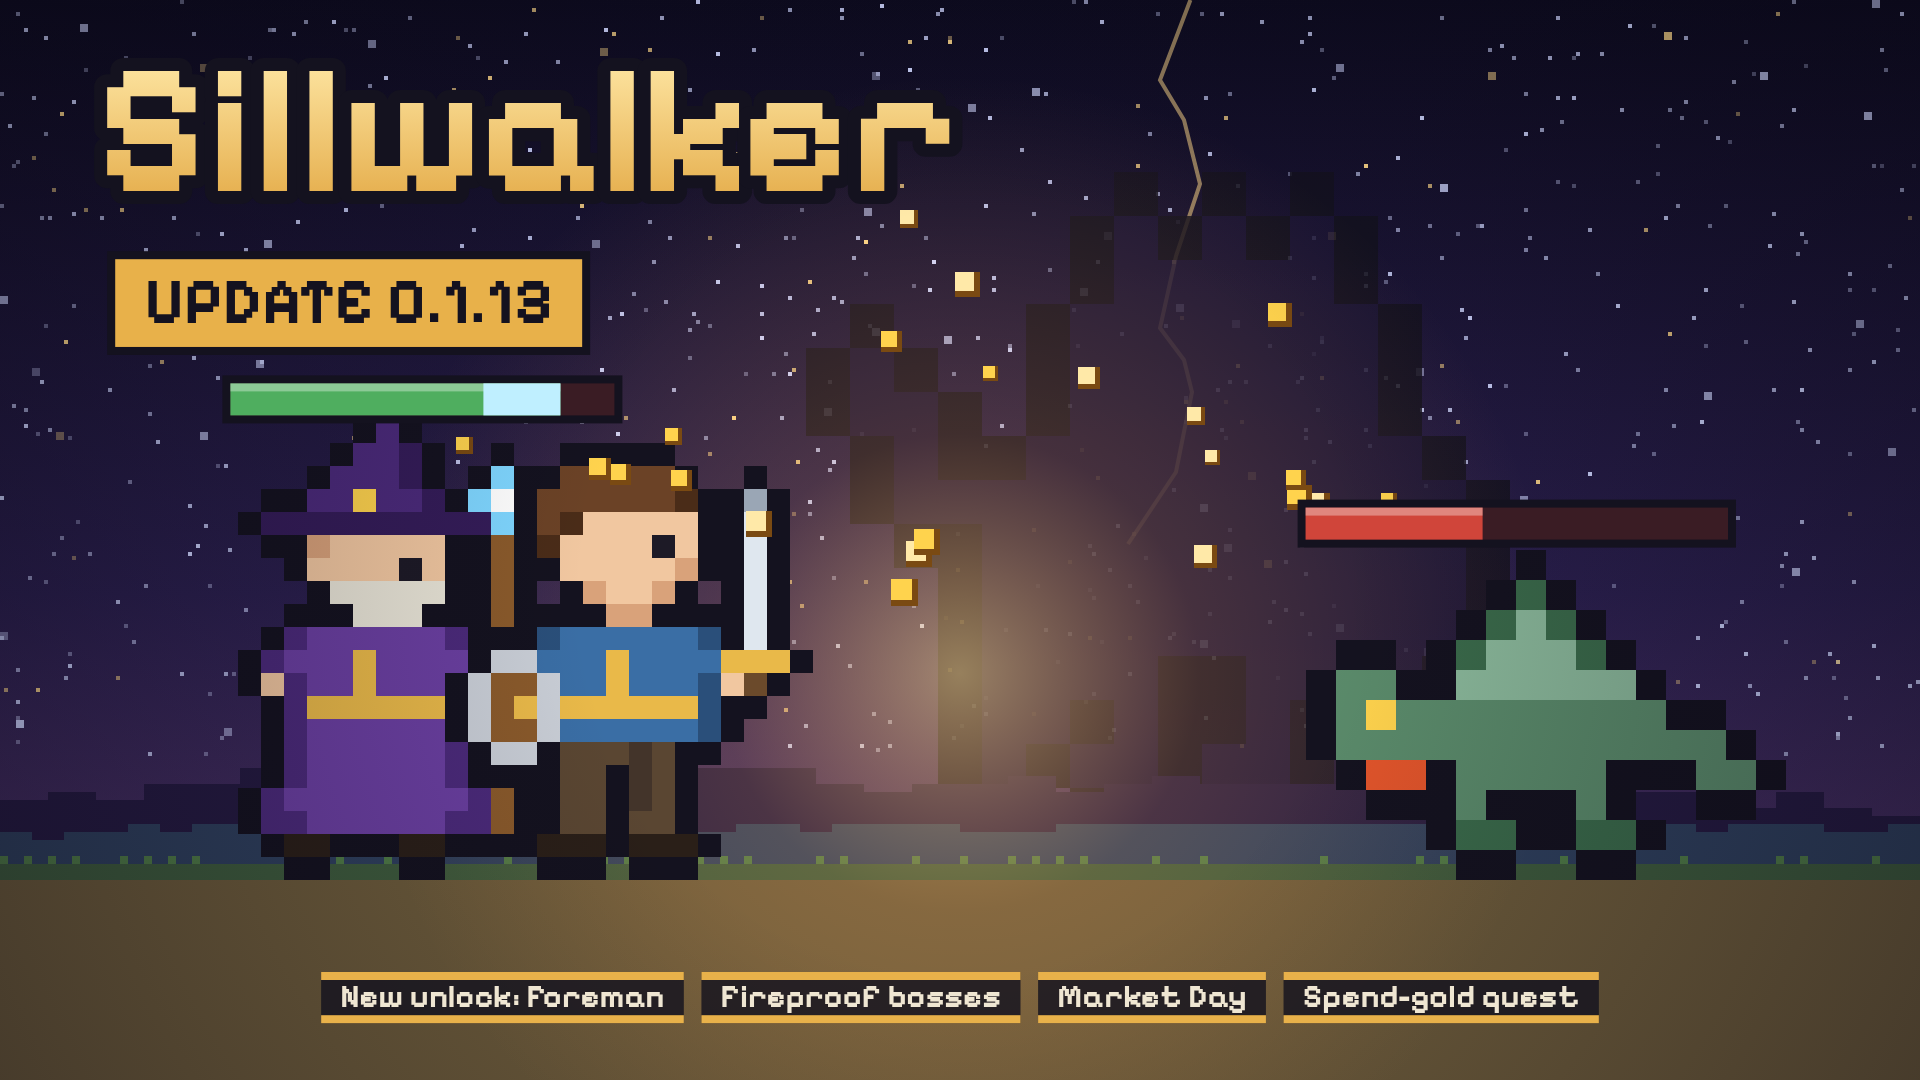
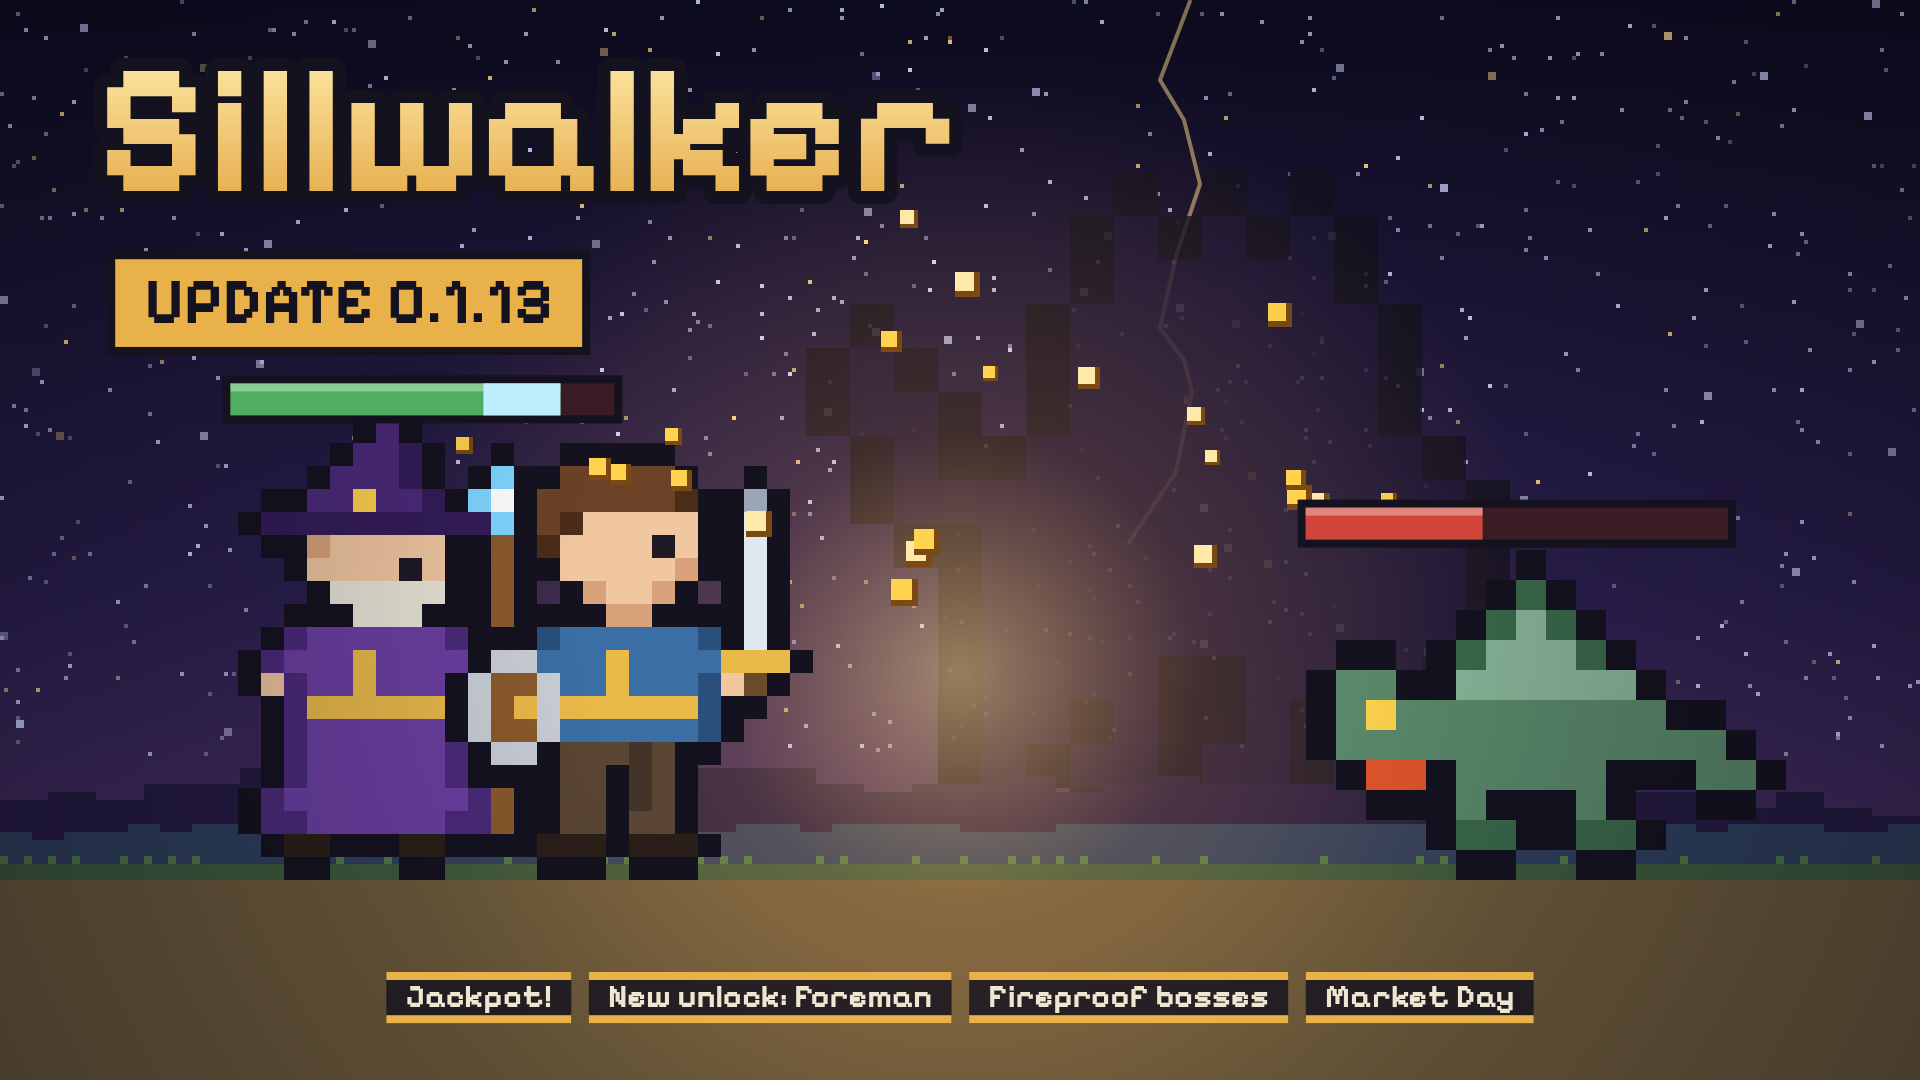
Quoi de neuf (it. 3405) : édition 209, Jackpot en tête de la 0.1.13
Claude-Session: https://claude.ai/code/session_01BoV1hVHohF69q4PDskLo8j

Changed region(s): [[0.1562, 0.8861, 0.8438, 0.9472]]

diff --git a/src/renderer/game/news.js b/src/renderer/game/news.js
@@ -986,7 +986,10 @@ const EDITION_207 = [
 const EDITION_208 = [
   "Familiers : les familiers encore à découvrir montrent aussi leur bonus au niveau 10, pour savoir ce qu’ils vaudront.",
 ];
-export const NEWS_EDITIONS = [EDITION_1, EDITION_2, EDITION_3, EDITION_4, EDITION_5, EDITION_6, EDITION_7, EDITION_8, EDITION_9, EDITION_10, EDITION_11, EDITION_12, EDITION_13, EDITION_14, EDITION_15, EDITION_16, EDITION_17, EDITION_18, EDITION_19, EDITION_20, EDITION_21, EDITION_22, EDITION_23, EDITION_24, EDITION_25, EDITION_26, EDITION_27, EDITION_28, EDITION_29, EDITION_30, EDITION_31, EDITION_32, EDITION_33, EDITION_34, EDITION_35, EDITION_36, EDITION_37, EDITION_38, EDITION_39, EDITION_40, EDITION_41, EDITION_42, EDITION_43, EDITION_44, EDITION_45, EDITION_46, EDITION_47, EDITION_48, EDITION_49, EDITION_50, EDITION_51, EDITION_52, EDITION_53, EDITION_54, EDITION_55, EDITION_56, EDITION_57, EDITION_58, EDITION_59, EDITION_60, EDITION_61, EDITION_62, EDITION_63, EDITION_64, EDITION_65, EDITION_66, EDITION_67, EDITION_68, EDITION_69, EDITION_70, EDITION_71, EDITION_72, EDITION_73, EDITION_74, EDITION_75, EDITION_76, EDITION_77, EDITION_78, EDITION_79, EDITION_80, EDITION_81, EDITION_82, EDITION_83, EDITION_84, EDITION_85, EDITION_86, EDITION_87, EDITION_88, EDITION_89, EDITION_90, EDITION_91, EDITION_92, EDITION_93, EDITION_94, EDITION_95, EDITION_96, EDITION_97, EDITION_98, EDITION_99, EDITION_100, EDITION_101, EDITION_102, EDITION_103, EDITION_104, EDITION_105, EDITION_106, EDITION_107, EDITION_108, EDITION_109, EDITION_110, EDITION_111, EDITION_112, EDITION_113, EDITION_114, EDITION_115, EDITION_116, EDITION_117, EDITION_118, EDITION_119, EDITION_120, EDITION_121, EDITION_122, EDITION_123, EDITION_124, EDITION_125, EDITION_126, EDITION_127, EDITION_128, EDITION_129, EDITION_130, EDITION_131, EDITION_132, EDITION_133, EDITION_134, EDITION_135, EDITION_136, EDITION_137, EDITION_138, EDITION_139, EDITION_140, EDITION_141, EDITION_142, EDITION_143, EDITION_144, EDITION_145, EDITION_146, EDITION_147, EDITION_148, EDITION_149, EDITION_150, EDITION_151, EDITION_152, EDITION_153, EDITION_154, EDITION_155, EDITION_156, EDITION_157, EDITION_158, EDITION_159, EDITION_160, EDITION_161, EDITION_162, EDITION_163, EDITION_164, EDITION_165, EDITION_166, EDITION_167, EDITION_168, EDITION_169, EDITION_170, EDITION_171, EDITION_172, EDITION_173, EDITION_174, EDITION_175, EDITION_176, EDITION_177, EDITION_178, EDITION_179, EDITION_180, EDITION_181, EDITION_182, EDITION_183, EDITION_184, EDITION_185, EDITION_186, EDITION_187, EDITION_188, EDITION_189, EDITION_190, EDITION_191, EDITION_192, EDITION_193, EDITION_194, EDITION_195, EDITION_196, EDITION_197, EDITION_198, EDITION_199, EDITION_200, EDITION_201, EDITION_202, EDITION_203, EDITION_204, EDITION_205, EDITION_206, EDITION_207, EDITION_208];
+const EDITION_209 = [
+  "Jackpot ! De temps en temps, une victoire rapporte 20 fois son or, avec une pluie de pièces et une fanfare : chaque combat peut être le bon.",
+];
+export const NEWS_EDITIONS = [EDITION_1, EDITION_2, EDITION_3, EDITION_4, EDITION_5, EDITION_6, EDITION_7, EDITION_8, EDITION_9, EDITION_10, EDITION_11, EDITION_12, EDITION_13, EDITION_14, EDITION_15, EDITION_16, EDITION_17, EDITION_18, EDITION_19, EDITION_20, EDITION_21, EDITION_22, EDITION_23, EDITION_24, EDITION_25, EDITION_26, EDITION_27, EDITION_28, EDITION_29, EDITION_30, EDITION_31, EDITION_32, EDITION_33, EDITION_34, EDITION_35, EDITION_36, EDITION_37, EDITION_38, EDITION_39, EDITION_40, EDITION_41, EDITION_42, EDITION_43, EDITION_44, EDITION_45, EDITION_46, EDITION_47, EDITION_48, EDITION_49, EDITION_50, EDITION_51, EDITION_52, EDITION_53, EDITION_54, EDITION_55, EDITION_56, EDITION_57, EDITION_58, EDITION_59, EDITION_60, EDITION_61, EDITION_62, EDITION_63, EDITION_64, EDITION_65, EDITION_66, EDITION_67, EDITION_68, EDITION_69, EDITION_70, EDITION_71, EDITION_72, EDITION_73, EDITION_74, EDITION_75, EDITION_76, EDITION_77, EDITION_78, EDITION_79, EDITION_80, EDITION_81, EDITION_82, EDITION_83, EDITION_84, EDITION_85, EDITION_86, EDITION_87, EDITION_88, EDITION_89, EDITION_90, EDITION_91, EDITION_92, EDITION_93, EDITION_94, EDITION_95, EDITION_96, EDITION_97, EDITION_98, EDITION_99, EDITION_100, EDITION_101, EDITION_102, EDITION_103, EDITION_104, EDITION_105, EDITION_106, EDITION_107, EDITION_108, EDITION_109, EDITION_110, EDITION_111, EDITION_112, EDITION_113, EDITION_114, EDITION_115, EDITION_116, EDITION_117, EDITION_118, EDITION_119, EDITION_120, EDITION_121, EDITION_122, EDITION_123, EDITION_124, EDITION_125, EDITION_126, EDITION_127, EDITION_128, EDITION_129, EDITION_130, EDITION_131, EDITION_132, EDITION_133, EDITION_134, EDITION_135, EDITION_136, EDITION_137, EDITION_138, EDITION_139, EDITION_140, EDITION_141, EDITION_142, EDITION_143, EDITION_144, EDITION_145, EDITION_146, EDITION_147, EDITION_148, EDITION_149, EDITION_150, EDITION_151, EDITION_152, EDITION_153, EDITION_154, EDITION_155, EDITION_156, EDITION_157, EDITION_158, EDITION_159, EDITION_160, EDITION_161, EDITION_162, EDITION_163, EDITION_164, EDITION_165, EDITION_166, EDITION_167, EDITION_168, EDITION_169, EDITION_170, EDITION_171, EDITION_172, EDITION_173, EDITION_174, EDITION_175, EDITION_176, EDITION_177, EDITION_178, EDITION_179, EDITION_180, EDITION_181, EDITION_182, EDITION_183, EDITION_184, EDITION_185, EDITION_186, EDITION_187, EDITION_188, EDITION_189, EDITION_190, EDITION_191, EDITION_192, EDITION_193, EDITION_194, EDITION_195, EDITION_196, EDITION_197, EDITION_198, EDITION_199, EDITION_200, EDITION_201, EDITION_202, EDITION_203, EDITION_204, EDITION_205, EDITION_206, EDITION_207, EDITION_208, EDITION_209];
 export const NEWS_ID = NEWS_EDITIONS.length;
 /** Nouveautés des éditions après `seen` (0 : toutes), la plus récente d'abord. */
 export const newsItems = (seen = 0) => NEWS_EDITIONS.slice(Math.max(0, seen)).reverse().flat();

diff --git a/scripts/steam-capsules/make.js b/scripts/steam-capsules/make.js
@@ -22,7 +22,7 @@ const SIZES = [
   ["update-0.1.10", 1920, 1080, "update", { ver: "0.1.10", tags: "Zeal Day|Champions’ Challenge|The Shrike pet|Friendlier mini mode|Clearer translations" }], // (it. 3260, 3273)
   ["update-0.1.11", 1920, 1080, "update", { ver: "0.1.11", tags: "New pets: Wasp, Woodpecker|Pet Party event|Forge Day|Events & blessings counted" }], // (it. 3299, 3302, 3312, 3319)
   ["update-0.1.12", 1920, 1080, "update", { ver: "0.1.12", tags: "New elite: Hexing|New pets: Mantis, Octopus|Sky Forge event|Travel Day" }], // (it. 3342, 3347, 3351, 3362)
-  ["update-0.1.13", 1920, 1080, "update", { ver: "0.1.13", tags: "New unlock: Foreman|Fireproof bosses|Market Day|Spend-gold quest" }], // (it. 3380, 3396)
+  ["update-0.1.13", 1920, 1080, "update", { ver: "0.1.13", tags: "Jackpot!|New unlock: Foreman|Fireproof bosses|Market Day" }], // (it. 3380, 3396, 3405)
 ].filter(([name]) => !process.env.ONLY || name === process.env.ONLY); // ONLY=<nom> : une seule image
 app.whenReady().then(async () => {
   fs.mkdirSync(OUT, { recursive: true });

diff --git a/src/renderer/i18n/lang/ru.js b/src/renderer/i18n/lang/ru.js
@@ -2469,4 +2469,5 @@ export default {
   3594: "Питомцы: ещё не найденные питомцы показывают и бонус на 10-м уровне — видно, чего они будут стоить.",
   3595: "Джекпот! {0} золота разом.",
   3596: "ДЖЕКПОТ! +{0} золота",
+  3597: "Джекпот! Время от времени победа приносит в 20 раз больше золота — с дождём монет и фанфарами: любой бой может стать счастливым.",
 };

diff --git a/src/renderer/i18n/lang/ja.js b/src/renderer/i18n/lang/ja.js
@@ -2469,4 +2469,5 @@ export default {
   3594: "ペット：未発見のペットもレベル 10 のボーナスを表示。育てたときの価値がわかる。",
   3595: "ジャックポット！一気に {0} ゴールド。",
   3596: "ジャックポット！+{0} ゴールド",
+  3597: "ジャックポット！ときどき勝利でゴールドが 20 倍に。コインの雨とファンファーレ付き：どの戦いも当たりかも。",
 };

diff --git a/src/renderer/i18n/keys.js b/src/renderer/i18n/keys.js
@@ -3598,5 +3598,6 @@ export const KEYS = [
   "au niveau {0} : {1}",
   "Familiers : les familiers encore à découvrir montrent aussi leur bonus au niveau 10, pour savoir ce qu’ils vaudront.",
   "Jackpot ! {0} or d’un coup.",
-  "JACKPOT ! +{0} or"
+  "JACKPOT ! +{0} or",
+  "Jackpot ! De temps en temps, une victoire rapporte 20 fois son or, avec une pluie de pièces et une fanfare : chaque combat peut être le bon."
 ];

diff --git a/src/renderer/i18n/lang/es.js b/src/renderer/i18n/lang/es.js
@@ -2469,4 +2469,5 @@ export default {
   3594: "Mascotas: las mascotas por descubrir también muestran su bonificación en el nivel 10, para saber cuánto valdrán.",
   3595: "¡Premio gordo! {0} de oro de golpe.",
   3596: "¡PREMIO GORDO! +{0} de oro",
+  3597: "¡Premio gordo! De vez en cuando, una victoria da 20 veces su oro, con lluvia de monedas y fanfarria: cualquier combate puede ser el bueno.",
 };

diff --git a/src/renderer/i18n/lang/ko.js b/src/renderer/i18n/lang/ko.js
@@ -2469,4 +2469,5 @@ export default {
   3594: "펫: 아직 발견하지 못한 펫도 레벨 10 보너스를 보여 줍니다. 앞으로의 가치를 알 수 있어요.",
   3595: "잭팟! 한 번에 골드 {0}.",
   3596: "잭팟! 골드 +{0}",
+  3597: "잭팟! 가끔 승리하면 골드를 20배로 얻고, 동전 비와 팡파르가 울립니다: 어떤 전투든 대박일 수 있어요.",
 };

diff --git a/src/renderer/i18n/lang/pt.js b/src/renderer/i18n/lang/pt.js
@@ -2469,4 +2469,5 @@ export default {
   3594: "Mascotes: os mascotes ainda por descobrir também mostram seu bônus no nível 10, para você saber quanto vão valer.",
   3595: "Jackpot! {0} de ouro de uma vez.",
   3596: "JACKPOT! +{0} de ouro",
+  3597: "Jackpot! De vez em quando, uma vitória rende 20 vezes o seu ouro, com chuva de moedas e fanfarra: qualquer combate pode ser o premiado.",
 };

diff --git a/src/renderer/i18n/lang/de.js b/src/renderer/i18n/lang/de.js
@@ -2469,4 +2469,5 @@ export default {
   3594: "Begleiter: Noch unentdeckte Begleiter zeigen auch ihren Bonus auf Stufe 10, damit du weißt, was sie wert sein werden.",
   3595: "Jackpot! {0} Gold auf einen Schlag.",
   3596: "JACKPOT! +{0} Gold",
+  3597: "Jackpot! Ab und zu bringt ein Sieg das 20-Fache seines Goldes, mit Münzregen und Fanfare: Jeder Kampf kann der richtige sein.",
 };

diff --git a/src/renderer/i18n/lang/pl.js b/src/renderer/i18n/lang/pl.js
@@ -2469,4 +2469,5 @@ export default {
   3594: "Pupile: pupile do odkrycia pokazują też premię na poziomie 10, żeby było wiadomo, ile będą warte.",
   3595: "Jackpot! {0} złota naraz.",
   3596: "JACKPOT! +{0} złota",
+  3597: "Jackpot! Od czasu do czasu zwycięstwo daje 20 razy więcej złota, z deszczem monet i fanfarą: każda walka może być tą właściwą.",
 };

diff --git a/src/renderer/i18n/lang/zh.js b/src/renderer/i18n/lang/zh.js
@@ -2469,4 +2469,5 @@ export default {
   3594: "宠物：尚未发现的宠物也会显示 10 级时的加成，让你知道它们将来的价值。",
   3595: "头奖！一次获得 {0} 金币。",
   3596: "头奖！+{0} 金币",
+  3597: "头奖！偶尔，一场胜利会带来 20 倍金币，伴随金币雨和号角声：每场战斗都可能中奖。",
 };

diff --git a/src/renderer/i18n/lang/en.js b/src/renderer/i18n/lang/en.js
@@ -2469,4 +2469,5 @@ export default {
   3594: "Pets: pets still to discover also show their level 10 bonus, so you know what they’ll be worth.",
   3595: "Jackpot! {0} gold in one go.",
   3596: "JACKPOT! +{0} gold",
+  3597: "Jackpot! Now and then, a victory pays 20 times its gold, with a shower of coins and a fanfare: any fight could be the one.",
 };
